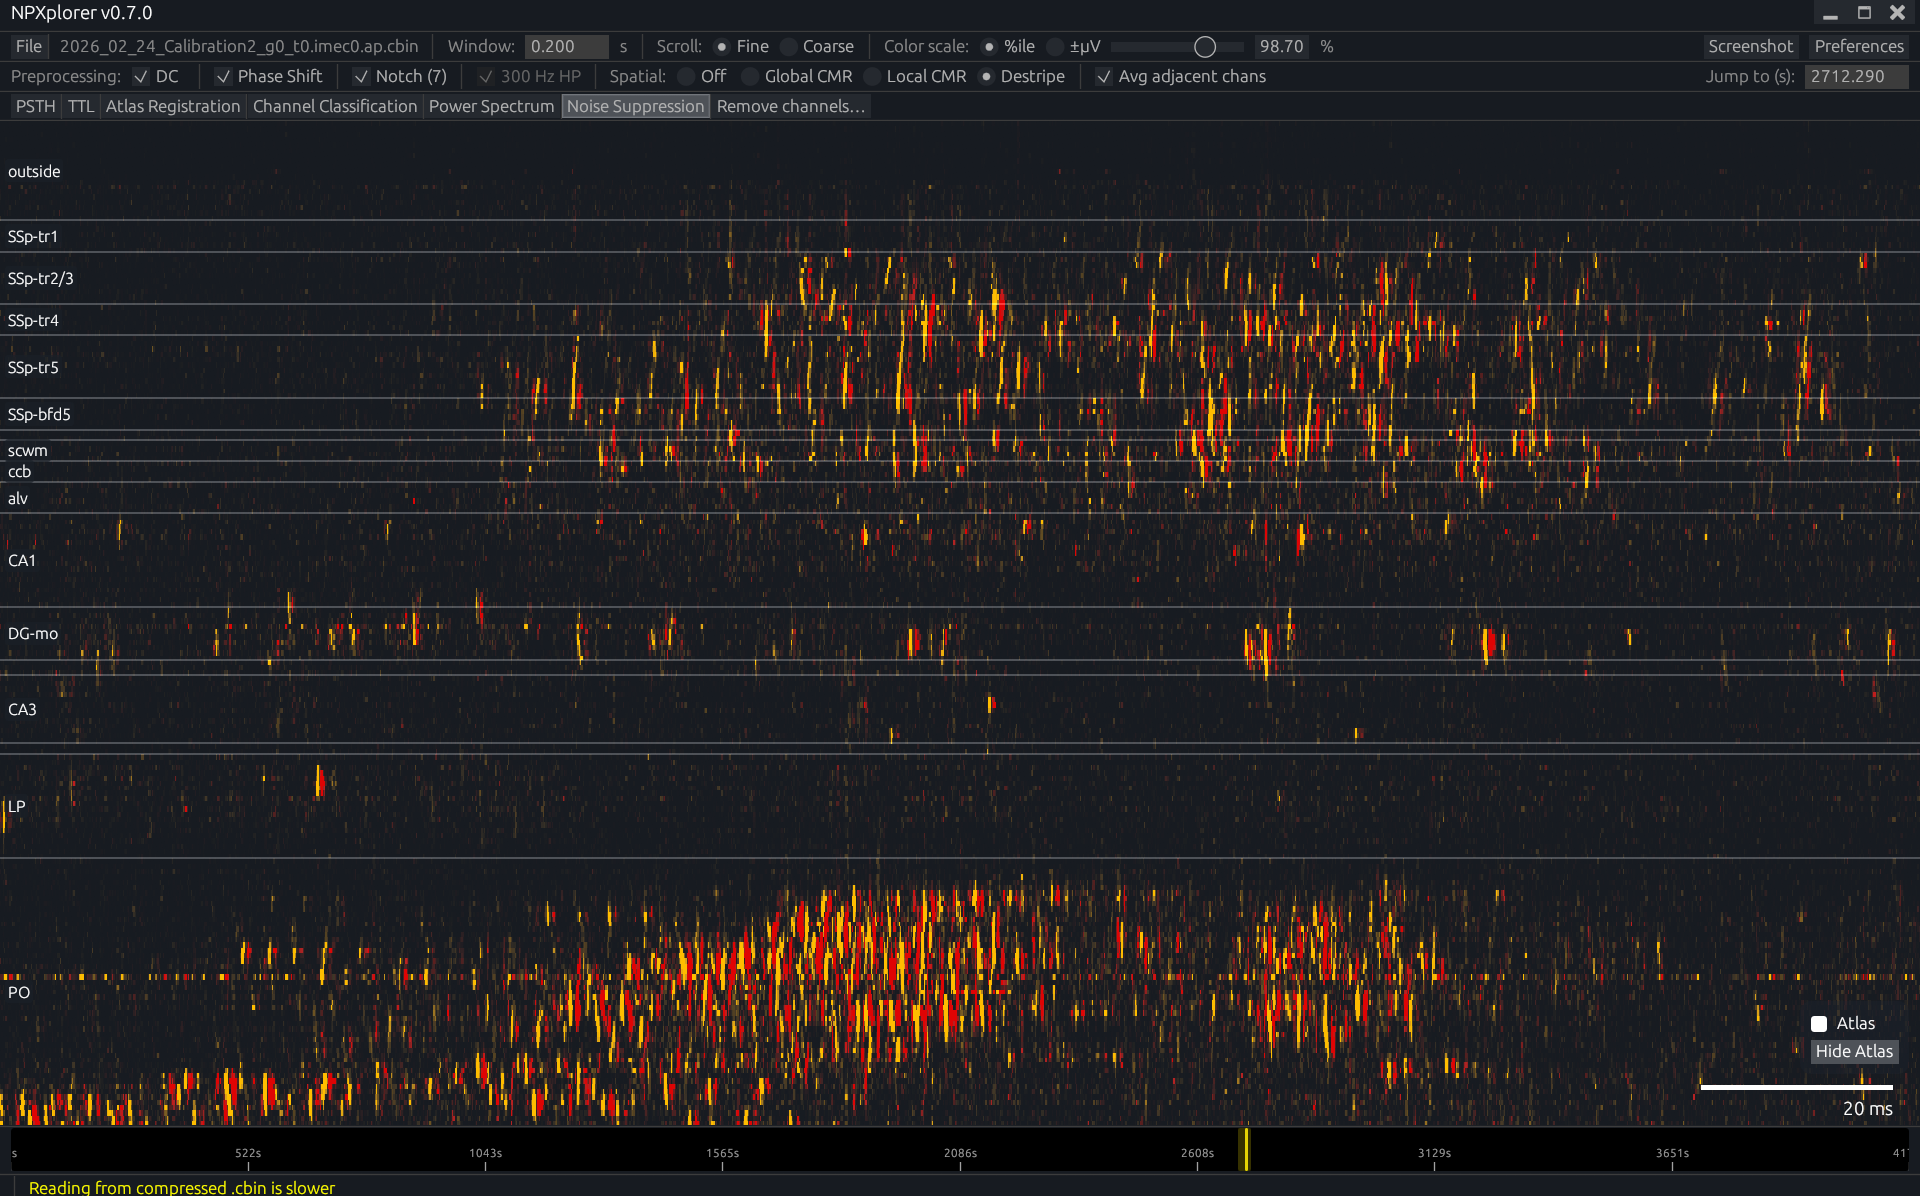
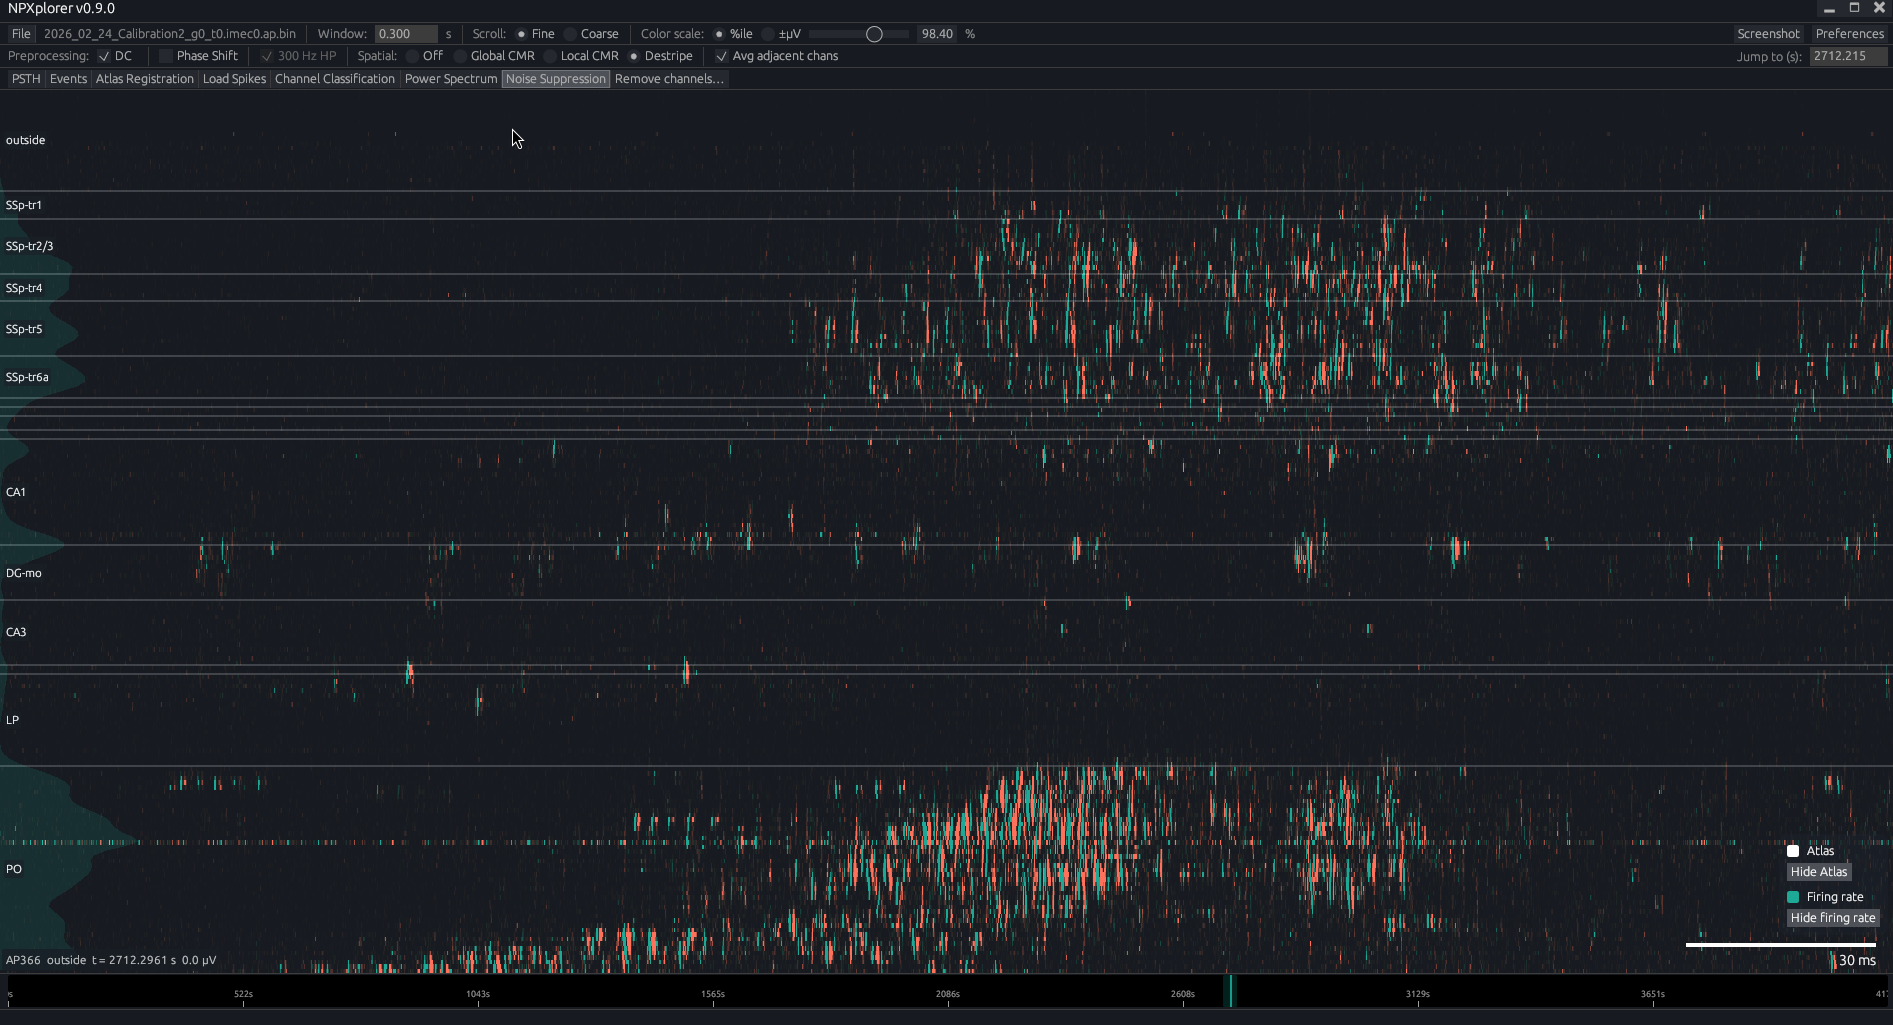
updated Readme + screenshot

diff --git a/README.md b/README.md
@@ -1,4 +1,4 @@
-# NPXplorer v0.7.0
+# NPXplorer v0.9.0
 
 A viewer for raw Neuropixels recordings. Shows the voltage of all channels as a heatmap laid out by the probe geometry.
 
@@ -12,6 +12,7 @@ A viewer for raw Neuropixels recordings. Shows the voltage of all channels as a 
 - Atlas registration with the Allen mouse brain atlas
 - Peri-stimulus averages (PSTH)
 - Event overlay (stimuli, TTL pulses, behavioural events)
+- Spike-sorted data overlay (phy / Kilosort output)
 - Screenshots of the plot area
 - Export of the preprocessed recording (SpikeGLX or Open Ephys format) for spike sorting
 
@@ -85,7 +86,7 @@ Marks dead (magenta), noisy (red) and out-of-brain (green) channels with a color
 
 ### Atlas registration
 
-Draws the borders between brain regions of the Allen mouse atlas (CCF 2017, 10 µm) on the heatmap, from the probe's insertion coordinates. It needs a folder with `annotation_10.nrrd` from the [Allen Institute](https://download.alleninstitute.org/informatics-archive/current-release/mouse_ccf/annotation/ccf_2017/) and the structure ontology saved as `query.csv` from the [Allen API](https://api.brain-map.org/api/v2/data/query.csv?criteria=model::Structure,rma::criteria,[ontology_id$eq1],rma::options[order$eq%27structures.graph_order%27][num_rows$eqall]). On the first load, the `.nrrd` is converted once into `annotation_10_npxplorer.npy` (2.4 GB) and `annotation_10_npxplorer_ids.txt` in the same folder, which takes a while and needs write access to the folder.
+Draws the borders between brain regions of the Allen mouse atlas (CCF 2017, 10 µm) on the heatmap, from the probe's insertion coordinates. It needs a folder, set in **Preferences → Default file locations…**, with `annotation_10.nrrd` from the [Allen Institute](https://download.alleninstitute.org/informatics-archive/current-release/mouse_ccf/annotation/ccf_2017/) and the structure ontology saved as `query.csv` from the [Allen API](https://api.brain-map.org/api/v2/data/query.csv?criteria=model::Structure,rma::criteria,[ontology_id$eq1],rma::options[order$eq%27structures.graph_order%27][num_rows$eqall]). On the first load, the `.nrrd` is converted once into `annotation_10_npxplorer.npy` (2.4 GB) and `annotation_10_npxplorer_ids.txt` in the same folder, which takes a while and needs write access to the folder.
 
 - **Insertion**: AP and ML in mm from bregma (AP positive = anterior, ML positive = right). Angles as **Azimuth / elevation / rotation** (azimuth from the lambda→bregma axis, elevation from horizontal) or **Polar / azimuth / roll** (polar angle from vertical, azimuth from +ML). Rotation/roll turns the probe around its axis, which matters for multi-shank probes.
 - **Depth**: from the brain surface to the tip, along the probe; the tip offset is the distance from the tip to the first electrode row (default 195 µm).
@@ -117,7 +118,13 @@ skips one header row, reads onsets from the first column and offsets from the se
 
 Shades the events on the heatmap and the waveform view, in the color of the firing rate overlay, and lists them as **Events** in the legend. The event file is read with the same layout as the PSTH. Offsets come from the `f` column(s); without one, each area is **Duration (ms)** long. **Emphasize on/offset** draws a thin line at each onset and offset.
 
-The event file last loaded in the Events or PSTH window is saved with the recording's settings, together with the Events and PSTH settings, and filled in when the recording is opened again (it is not loaded until **Load** or **Apply/Compute** is pressed).
+The event file last loaded in the Events or PSTH window is saved with the recording's settings, together with the Events and PSTH settings, and filled in when the recording is opened again (it is not loaded until **Load** or **Apply/Compute** is pressed). Without one, the default event file from **Preferences → Default file locations…** is filled in, if it exists. With **Load on start → Events** ticked there, the event file is loaded when the recording is opened: the recording's own one, or else the default.
+
+### Spike-sorted data
+
+**Load Spikes** asks for a phy folder (the output of Kilosort, iblsorter and other sorters that write the phy format), starting in the default folder from **Preferences → Default file locations…** (`ks` next to the recording, unless changed). With **Load on start → Spike-sorted data** ticked there, the default folder is loaded when the recording is opened. Each spike is drawn as a dot on the heatmap, at its time and on the channel where its template is largest (black with a white outline; white with a black outline on Cool-Warm). The dots grow as the time window gets shorter. With more than 20,000 spikes in the view, none are drawn and the legend asks you to zoom in. The legend lists the number of units and toggles the dots with **Show spikes**/**Hide spikes**. Spikes are drawn in the LF view too.
+
+Files read: `spike_times.npy`, `spike_templates.npy`, `templates.npy`, `channel_map.npy`, `params.py` (sample rate, channel count), and if present `spike_clusters.npy` (curated clusters), `templates_ind.npy` (sparse templates) and `cluster_group.tsv` (clusters labelled `noise` are not shown). The sorting must have been run on the open file, or on a file with the same channels: a different channel count in `params.py` (e.g. an export with channels removed) is refused. Spikes on removed channels are not drawn.
 
 ### Power Spectrum
 
@@ -132,7 +139,7 @@ The event file last loaded in the Events or PSTH window is saved with the record
 
 ### Screenshot
 
-**Screenshot** (top right) opens a window listing the overlays calculated so far (events, atlas regions, firing rate, power spectrum, channel classification), plus the selected-channel lines and the scale bar; tick the ones to include. **Save…** asks for a file name and saves the plot area (the heatmap with the spectrum panel, or the waveform view) as a PNG at screen resolution, without windows, the legend or the hover readout. The window closes once the image is saved.
+**Screenshot** (top right) opens a window listing the overlays calculated so far (events, spikes, atlas regions, firing rate, power spectrum, channel classification), plus the selected-channel lines and the scale bar; tick the ones to include. **Save…** asks for a file name and saves the plot area (the heatmap with the spectrum panel, or the waveform view) as a PNG at screen resolution, without windows, the legend or the hover readout. The window closes once the image is saved.
 
 ### Export preprocessed data
 
@@ -146,7 +153,7 @@ The window offers:
 - **Event blanking**: sets the data around each event of the **Events** window to 0 (**Blank**) or bridges it with a straight line (**Interpolate**), in a window from **Start** to **End** (ms, relative to the onset). **Around offsets** adds a second window around each offset; without an offset column in the event file, the offset is the onset plus **Event length**. Blanking runs before notch, highpass and spatial filter, so they don't spread the artifact.
 - **Write probe file for Kilosort 4**, and **Open export when done**.
 
-**Export…** opens a save dialog with a proposed name: the original's with `_preprocessed` and the time range added (e.g. `run_preprocessed_120-300s_g0_t0.imec0.ap.bin`); the original can't be overwritten. While the export runs, the window is frozen and greyed out and all CPU cores are used; **Abort** stops it and removes what was written. Noise suppression is a display filter and is not exported.
+**Export…** opens a save dialog, in the export folder from **Preferences → Default file locations…** if one is set (it is created if needed) or else next to the original, with a proposed name: the original's with `_preprocessed` and the time range added (e.g. `run_preprocessed_120-300s_g0_t0.imec0.ap.bin`); the original can't be overwritten. While the export runs, the window is frozen and greyed out and all CPU cores are used; **Abort** stops it and removes what was written. Noise suppression is a display filter and is not exported.
 
 Next to the export, NPXplorer writes:
 
@@ -160,6 +167,8 @@ Next to the export, NPXplorer writes:
 Every setting made for a recording, in the main window and in the tool windows (preprocessing, colour scale, time window, removed channels, noise suppression and notches, overlays, power spectrum, classification, events, PSTH, atlas registration), is saved in `<recording>.npxplorer.toml` next to the data file and applied when the recording is opened again. The AP and LF files of a recording share it: settings that differ between the bands are kept separately, the removed channels, event and atlas settings are shared. Overlays that take a computation (power spectrum, channel classification, PSTH) are not recomputed on opening; their settings are restored. The file is written about a second after a change and when the recording is closed. Files written by earlier versions (`.npx_atlas.toml`, `.npx_notch.toml`) are read and replaced by it.
 
 Preferences are saved in `config/npxplorer_prefs.toml` next to the executable, together with the default layout files for PSTH and Remove channels. They hold the settings that are not specific to a recording (atlas folder, buffer and memory limits, recent files) and the last-used settings, which a recording opened for the first time starts with.
+
+**Default file locations…** (top of Preferences) sets where files that belong to a recording are looked for, as paths relative to the recording's folder (`..` goes up a folder, e.g. `../ks`; absolute paths work too): the **Event file**, the **Spike-sorted data** folder (default `ks`) and the **Export folder** (empty: next to the recording). For Open Ephys, the recording's folder is the one holding `continuous.dat`. **Load on start** loads the events and/or the spike-sorted data when a recording is opened. The **Atlas folder** for Atlas registration is set there too.
 
 The **Buffer** section in Preferences controls how much of the recording is preprocessed ahead of time and the memory limits at which the buffer stops growing.
 
